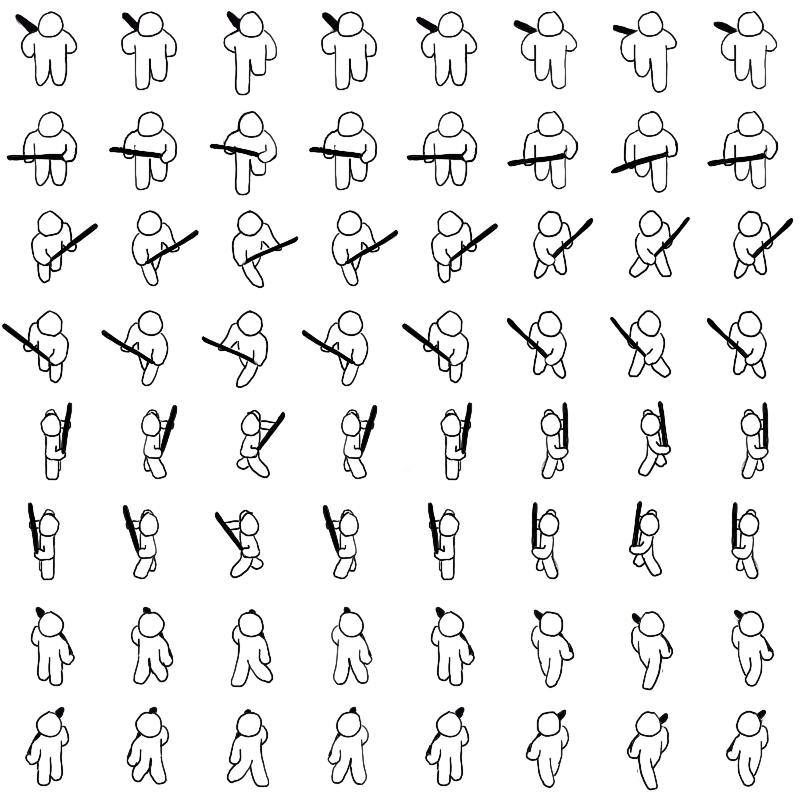
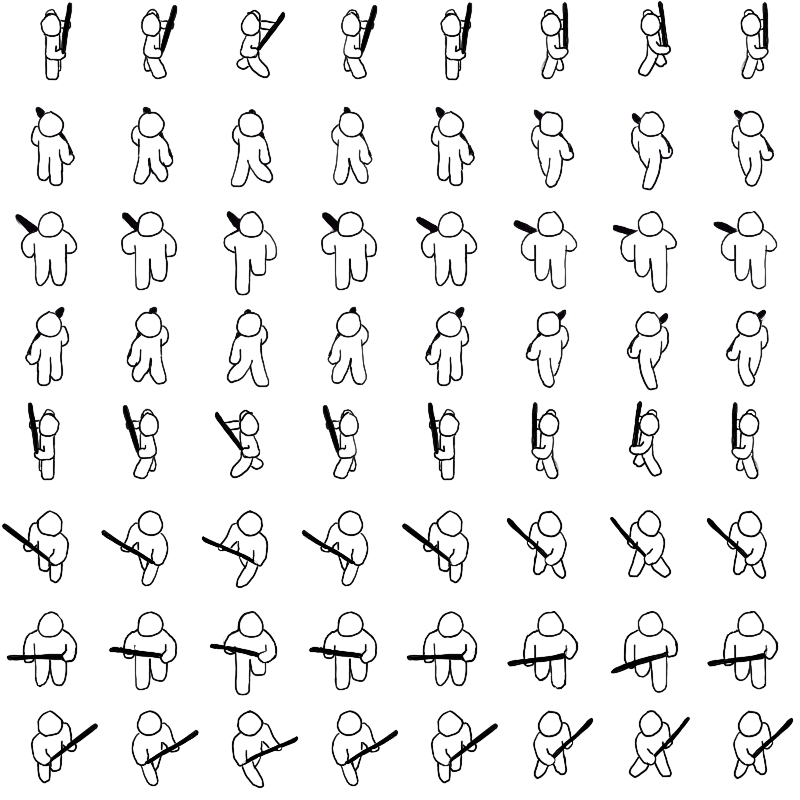
animations

diff --git a/src/unit/history.rs b/src/unit/history.rs
@@ -1,28 +1,33 @@
-use bevy::{prelude::*, sprite::{MaterialMesh2dBundle, Mesh2dHandle}};
+use bevy::prelude::*;
 
 use super::component;
 use crate::input::{component::{Selectable, Selected}, Reverse, Repeat};
 
+const GHOST_COLOR: Color = Color::rgba(0.5, 0.5, 1.0, 0.3);
+const DEFAULT_COLOR: Color = Color::WHITE;
+
 #[derive(Clone)]
 pub struct Snapshot {
+    pub atlas_index: usize,
     pub action: super::action::Action,
     pub state: super::State,
     pub timestamp: f32,
-    pub position: Vec2,
+    pub position: Vec3,
     pub direction: f32,
 }
 
 pub fn track_history(
-    mut queue: Query<(&mut component::History, &Transform, &component::CurrentState, &component::CurrentAction), (With<component::Unit>, Without<component::Repeat>, Without<component::Reverse>)>,
+    mut queue: Query<(&mut component::History, &TextureAtlas, &Transform, &component::CurrentState, &component::CurrentAction), (With<component::Unit>, Without<component::Repeat>, Without<component::Reverse>)>,
     time: Res<Time>,
     ) {
-    for (mut history, transform, state, action) in queue.iter_mut() {
+    for (mut history, atlas, transform, state, action) in queue.iter_mut() {
         let z = transform.rotation.to_euler(EulerRot::XYZ).2;
         history.snapshots.push_back(Snapshot {
+            atlas_index: atlas.index,
             action: action.value,
             state: state.value,
             timestamp: time.elapsed_seconds(),
-            position: transform.translation.xy(),
+            position: transform.translation,
             direction: z,
         });
     }
@@ -30,24 +35,22 @@ pub fn track_history(
 
 pub fn repeat_history(
     mut commands: Commands,
-    mut materials: ResMut<Assets<ColorMaterial>>,
-    mut queue: Query<(Entity, &Handle<ColorMaterial>, &mut Transform, &mut component::History, &mut component::CurrentState, &mut component::CurrentAction, Option<&component::Repeat>, Option<&component::Reverse>), (With<component::Unit>, With<component::Ghost>)>,
+    mut queue: Query<(Entity, &mut Sprite, &mut Transform, &mut component::History, &mut TextureAtlas, &mut component::CurrentState, &mut component::CurrentAction, Option<&component::Repeat>, Option<&component::Reverse>), (With<component::Unit>, With<component::Ghost>)>,
     ) {
-    for (entity, handle, mut transform, mut history, mut state, mut action, opt_repeat, opt_reverse) in queue.iter_mut() {
+    for (entity, mut sprite, mut transform, mut history, mut atlas, mut state, mut action, opt_repeat, opt_reverse) in queue.iter_mut() {
         if let Some(_) = opt_repeat {
             if let Some(snapshot) = history.snapshots.pop_front() {
-                let mut historical_transform = Transform::from_xyz(snapshot.position.x, snapshot.position.y, 0.0);
+                let mut historical_transform = Transform::from_translation(snapshot.position);
                 historical_transform.rotate_z(snapshot.direction);
                 *transform = historical_transform;
                 state.value = snapshot.state;
                 action.value = snapshot.action;
+                atlas.index = snapshot.atlas_index;
                 if action.value == super::action::Action::Attack {
                     warn!("Repeat Attack");
                 }
             } else {
-                if let Some(material) = materials.get_mut(handle) {
-                    material.color = Color::rgba(1.0, 1.0, 1.0, 1.0);
-                }
+                sprite.color = DEFAULT_COLOR;
                 commands.entity(entity).remove::<component::Ghost>();
                 commands.entity(entity).remove::<component::Repeat>();
                 commands.entity(entity).insert(Selectable);
@@ -55,18 +58,17 @@ pub fn repeat_history(
         }
         if let Some(_) = opt_reverse {
             if let Some(snapshot) = history.snapshots.pop_back() {
-                let mut historical_transform = Transform::from_xyz(snapshot.position.x, snapshot.position.y, 0.0);
+                let mut historical_transform = Transform::from_translation(snapshot.position);
                 historical_transform.rotate_z(snapshot.direction);
                 *transform = historical_transform;
                 state.value = snapshot.state;
                 action.value = snapshot.action;
+                atlas.index = snapshot.atlas_index;
                 if action.value == super::action::Action::Attack {
                     warn!("Reverse Attack");
                 }
             } else {
-                if let Some(material) = materials.get_mut(handle) {
-                    material.color = Color::rgba(1.0, 1.0, 1.0, 1.0);
-                }
+                sprite.color = DEFAULT_COLOR;
                 commands.entity(entity).remove::<component::Ghost>();
                 commands.entity(entity).remove::<component::Reverse>();
                 commands.entity(entity).insert(Selectable);
@@ -78,17 +80,15 @@ pub fn repeat_history(
 pub fn start_reverse(
     mut commands: Commands,
     mut reverse_reader: EventReader<Reverse>,
-    mut meshes: ResMut<Assets<Mesh>>,
-    mut materials: ResMut<Assets<ColorMaterial>>,
-    mut query: Query<(Entity, &Handle<ColorMaterial>, &mut component::Target, &component::History, &component::Radius, &component::TurnRate, &component::MoveSpeed, &component::CurrentState, &component::CurrentAction, &component::Attack)>,
+    asset_server: Res<AssetServer>,
+    mut texture_atlas_layouts: ResMut<Assets<TextureAtlasLayout>>,
+    mut query: Query<(Entity, &mut Sprite, &mut component::Target, &component::History, &component::Radius, &component::TurnRate, &component::MoveSpeed, &component::Facing, &component::CurrentState, &component::CurrentAction, &component::Attack, &component::AnimationIndices, &component::AnimationTimer)>,
     time: Res<Time>,
     ) {
     for event in reverse_reader.read() {
         if !event.1 {
-            if let Ok((entity, handle, mut target, history, _, _, _, _, _, _)) = query.get_mut(event.0) {
-                if let Some(material) = materials.get_mut(handle) {
-                    material.color = Color::rgba(0.5, 0.5, 1.0, 0.5);
-                }
+            if let Ok((entity, mut sprite, mut target, history, _, _, _, _, _, _, _, _, _)) = query.get_mut(event.0) {
+                sprite.color = GHOST_COLOR;
                 if let Some(first_snapshot) = history.snapshots.front() {
                     target.x = first_snapshot.position.x;
                     target.y = first_snapshot.position.y;
@@ -99,28 +99,42 @@ pub fn start_reverse(
                 }
             }
         } else {
-            if let Ok((_, _, _, history, radius, turn_rate, move_speed, state, action, attack)) = query.get(event.0) {
+            if let Ok((_, _, _, history, radius, turn_rate, move_speed, facing, state, action, attack, anim_indices, anim_timer)) = query.get(event.0) {
                 if let Some(last_snapshot) = history.snapshots.back() {
                     if let Some(first_snapshot) = history.snapshots.front() {
-                        let mut spawn_transform = Transform::from_xyz(last_snapshot.position.x, last_snapshot.position.y, 0.0);
-                        spawn_transform.rotate_z(last_snapshot.direction);
-                        commands.spawn((MaterialMesh2dBundle {
-                            mesh: Mesh2dHandle(meshes.add(Circle { radius: radius.value })),
-                            material: materials.add(Color::rgba(0.5, 0.5, 1.0, 0.5)),
+                        let texture = asset_server.load::<Image>("marine.png");
+                        let layout = TextureAtlasLayout::from_grid(Vec2::new(100.0, 100.0), 8, 8, None, None);
+                        let texture_atlas_layout = texture_atlas_layouts.add(layout);
+                        let spawn_transform = Transform::from_xyz(last_snapshot.position.x, last_snapshot.position.y, 0.0);
+                        commands.spawn((SpriteSheetBundle {
+                            sprite: Sprite {
+                                color: GHOST_COLOR,
+                                ..default()
+                            },
+                            texture,
+                            atlas: TextureAtlas {
+                                layout: texture_atlas_layout,
+                                index: 0,
+                            },
                             transform: spawn_transform,
                             ..default()
                         },
-                        component::Ghost,
                         component::Unit,
+                        ))
+                        .insert((
+                        component::Ghost,
                         component::Radius { value: radius.value },
                         component::Velocity { x: 0.0, y: 0.0 },
                         component::MoveSpeed { value: move_speed.value },
+                        component::Facing { value: facing.value },
                         component::TurnRate { value: turn_rate.value },
                         component::Target { x: first_snapshot.position.x, y: first_snapshot.position.y},
                         component::Attack { timer: attack.timer.clone() },
                         component::CurrentAction { value: action.value },
                         component::CurrentState { value: state.value },
                         component::History { snapshots: history.snapshots.clone() },
+                        component::AnimationIndices { current: anim_indices.current, first: anim_indices.first, last: anim_indices.last },
+                        component::AnimationTimer { timer: anim_timer.timer.clone() },
                         component::Reverse { timestamp: time.elapsed_seconds() },
                         ));
                     }
@@ -133,17 +147,15 @@ pub fn start_reverse(
 pub fn start_repeat(
     mut commands: Commands,
     mut repeat_reader: EventReader<Repeat>,
-    mut meshes: ResMut<Assets<Mesh>>,
-    mut materials: ResMut<Assets<ColorMaterial>>,
-    mut query: Query<(Entity, &Handle<ColorMaterial>, &mut component::Target, &component::History, &component::Radius, &component::TurnRate, &component::MoveSpeed, &component::CurrentState, &component::CurrentAction, &component::Attack)>,
+    asset_server: Res<AssetServer>,
+    mut texture_atlas_layouts: ResMut<Assets<TextureAtlasLayout>>,
+    mut query: Query<(Entity, &mut Sprite, &mut component::Target, &component::History, &component::Radius, &component::TurnRate, &component::MoveSpeed, &component::Facing, &component::CurrentState, &component::CurrentAction, &component::Attack, &component::AnimationIndices, &component::AnimationTimer)>,
     time: Res<Time>,
     ) {
     for event in repeat_reader.read() {
         if !event.1 {
-            if let Ok((entity, handle, mut target, history, _, _, _, _, _, _)) = query.get_mut(event.0) {
-                if let Some(material) = materials.get_mut(handle) {
-                    material.color = Color::rgba(0.5, 0.5, 1.0, 0.5);
-                }
+            if let Ok((entity, mut sprite, mut target, history, _, _, _, _, _, _, _, _, _)) = query.get_mut(event.0) {
+                sprite.color = Color::rgba(0.5, 0.5, 1.0, 0.5);
                 if let Some(last_snapshot) = history.snapshots.back() {
                 target.x = last_snapshot.position.x;
                 target.y = last_snapshot.position.y;
@@ -154,28 +166,43 @@ pub fn start_repeat(
                 }
             }
         } else {
-            if let Ok((_, _, _, history, radius, turn_rate, move_speed, state, action, attack)) = query.get(event.0) {
+            if let Ok((_, _, _, history, radius, turn_rate, move_speed, facing, state, action, attack, anim_indices, anim_timer)) = query.get(event.0) {
                 if let Some(first_snapshot) = history.snapshots.front() {
                     if let Some(last_snapshot) = history.snapshots.back() {
-                        let mut spawn_transform = Transform::from_xyz(first_snapshot.position.x, first_snapshot.position.y, 0.0);
-                        spawn_transform.rotate_z(last_snapshot.direction);
-                        commands.spawn((MaterialMesh2dBundle {
-                            mesh: Mesh2dHandle(meshes.add(Circle { radius: radius.value })),
-                            material: materials.add(Color::rgba(0.5, 0.5, 1.0, 0.5)),
+                        let texture = asset_server.load::<Image>("marine.png");
+                        let layout = TextureAtlasLayout::from_grid(Vec2::new(100.0, 100.0), 8, 8, None, None);
+                        let texture_atlas_layout = texture_atlas_layouts.add(layout);
+                        let spawn_transform = Transform::from_xyz(first_snapshot.position.x, first_snapshot.position.y, 0.0);
+                        commands.spawn((SpriteSheetBundle {
+                            sprite: Sprite {
+                                color: GHOST_COLOR,
+                                ..default()
+                            },
+                            texture,
+                            atlas: TextureAtlas {
+                                layout: texture_atlas_layout,
+                                index: 0,
+                            },
                             transform: spawn_transform,
                             ..default()
                         },
+                        component::Unit,
+                        ))
+                        .insert((
                         component::Ghost,
                         component::Unit,
                         component::Radius { value: radius.value },
                         component::Velocity { x: 0.0, y: 0.0 },
                         component::MoveSpeed { value: move_speed.value },
+                        component::Facing { value: facing.value },
                         component::TurnRate { value: turn_rate.value },
                         component::Target { x: last_snapshot.position.x, y: last_snapshot.position.y},
                         component::Attack { timer: attack.timer.clone() },
                         component::CurrentAction { value: action.value },
                         component::CurrentState { value: state.value },
                         component::History { snapshots: history.snapshots.clone() },
+                        component::AnimationIndices { current: anim_indices.current, first: anim_indices.first, last: anim_indices.last },
+                        component::AnimationTimer { timer: anim_timer.timer.clone() },
                         component::Repeat { timestamp: time.elapsed_seconds() },
                         ));
                     }

diff --git a/src/unit/mod.rs b/src/unit/mod.rs
@@ -54,6 +54,10 @@ pub fn spawn(
         let spawn_transform = Transform::from_xyz((n * 30) as f32, (n * 30) as f32, 0.0);
         commands.spawn((
                 SpriteSheetBundle {
+                    sprite: Sprite {
+                        color: Color::WHITE,
+                        ..default()
+                    },
                     texture,
                     atlas: TextureAtlas {
                         layout: texture_atlas_layout,
@@ -74,24 +78,35 @@ pub fn spawn(
                 component::Attack { timer: Timer::from_seconds(5.0, TimerMode::Once) },
                 component::CurrentState { value: State::Idle },
                 component::History { snapshots: VecDeque::new() },
-                component::AnimationIndices { first: 0, last: 7 },
+                component::AnimationIndices { current: 0, first: 0, last: 7 },
                 component::AnimationTimer { timer: Timer::from_seconds(0.1, TimerMode::Repeating) },
                 ));
     }
 }
 
+fn angle_to_direction(angle: f32) -> usize {
+    let angle_positive = (angle + (2.0 * PI)) % (2.0 * PI);
+    let index = ((angle_positive + PI / 8.0) % (2.0 * PI) / (PI / 4.0)) as usize;
+    index
+}
+
 pub fn animate_sprite(
     time: Res<Time>,
-    mut query: Query<(&mut TextureAtlas, &mut component::AnimationIndices, &mut component::AnimationTimer), With<component::Unit>>,
+    mut query: Query<(&mut TextureAtlas, &mut component::AnimationIndices, &mut component::AnimationTimer, &component::Facing, &component::CurrentState), (With<component::Unit>, Without<component::Ghost>)>,
     ) {
-    for (mut atlas, mut indices, mut timer) in query.iter_mut() {
+    for (mut atlas, mut indices, mut timer, facing, state) in query.iter_mut() {
+        let direction = angle_to_direction(facing.value);
+        if state.value != State::Move {
+            atlas.index = direction * 8;
+            continue;
+        }
         timer.timer.tick(time.delta());
         if timer.timer.finished() {
-            atlas.index = if atlas.index == indices.last {
-                indices.first
-            } else {
-                atlas.index + 1
-            };
+            indices.current += 1;
+            if indices.current > indices.last {
+                indices.current = indices.first;
+            }
+            atlas.index = direction * 8 + indices.current;
         }
     }
 }
@@ -99,16 +114,10 @@ pub fn animate_sprite(
 
 pub fn draw_gizmo(
     mut gizmos: Gizmos,
-    query: Query<(&Transform, &component::Facing), With<Selected>>
+    query: Query<&Transform, With<Selected>>
     ) {
-    for (transform, facing) in query.iter() {
-        let direction = Vec2::new(facing.value.cos(), facing.value.sin());
-        gizmos.circle_2d(transform.translation.xy(), 25.0, Color::GREEN);
-        //gizmos.line_2d(
-        //    transform.translation.xy(),
-        //    transform.translation.xy() + Vec2::new(direction.x, direction.y) * 25.0,
-        //    Color::BLUE,
-        //    );
+    for transform in query.iter() {
+        gizmos.circle_2d(transform.translation.xy() - Vec2::new(0.0, 25.0), 25.0, Color::GREEN);
     }
 }
 

diff --git a/src/unit/movement.rs b/src/unit/movement.rs
@@ -2,7 +2,7 @@ use bevy::prelude::*;
 
 use super::{component, component::AsVec2, State};
 
-const ARRIVAL_DISTANCE: f32 = 1.0;
+const ARRIVAL_DISTANCE: f32 = 5.0;
 
 pub fn apply_velocity(
     time: Res<Time>,
@@ -11,6 +11,7 @@ pub fn apply_velocity(
     for (mut transform, mut velocity) in query.iter_mut() {
         transform.translation.x += velocity.x * time.delta_seconds();
         transform.translation.y += velocity.y * time.delta_seconds();
+        transform.translation.z = -transform.translation.y;
         velocity.x = 0.0;
         velocity.y = 0.0;
     }

diff --git a/src/unit/component.rs b/src/unit/component.rs
@@ -93,6 +93,7 @@ pub struct Attack {
 
 #[derive(Component)]
 pub struct AnimationIndices {
+    pub current: usize,
     pub first: usize,
     pub last: usize
 }
